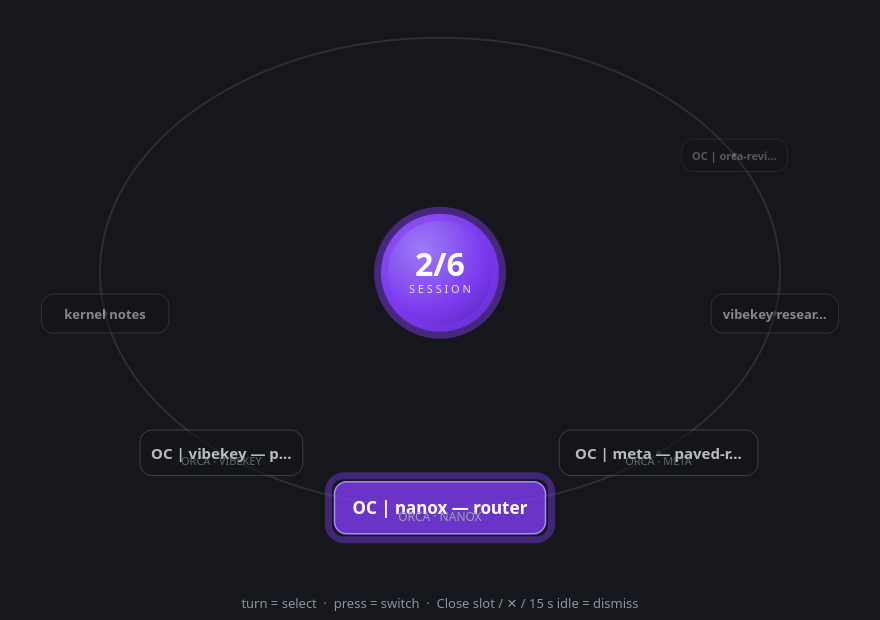
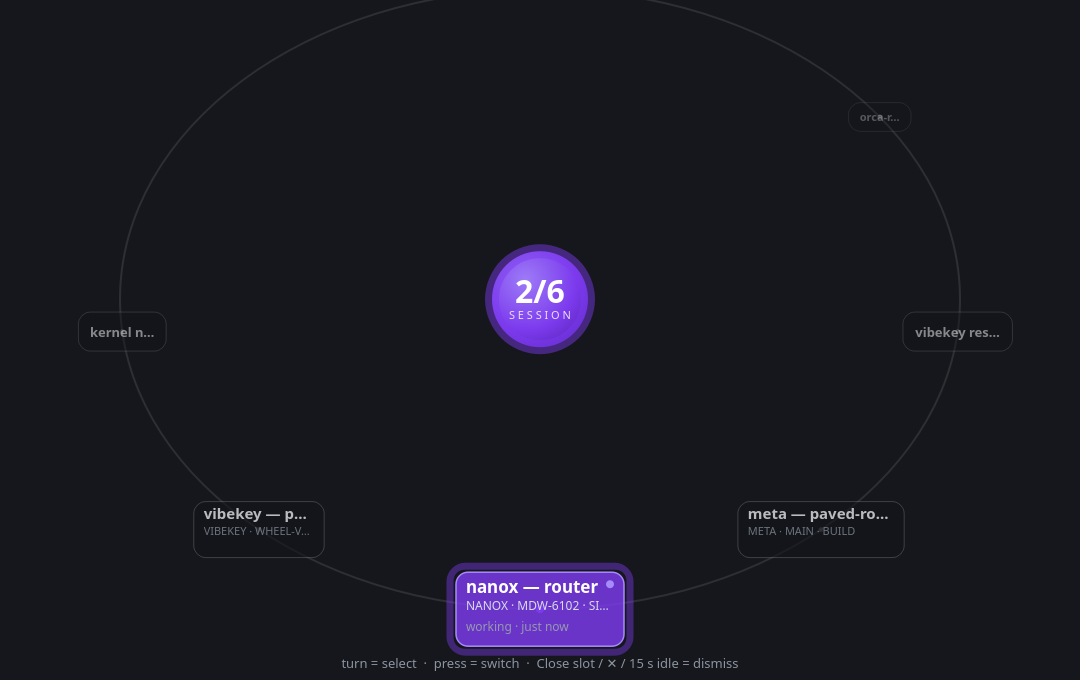
Wheel v5: richer cards, one detent = one slot
Owner: 'the wheel is too sensitive' + 'from the cards it's unclear what
session this is'.

1. Sensitivity: a physical detent can emit a burst of wheel reports —
   each used to step the Wheel (and the closed-state dial). Same-direction
   reports inside TURN_MIN_INTERVAL (0.10 s) are now recognised as the
   burst of the SAME click and dropped; a deliberate reversal passes
   through. Verified by a handle_control-level test (2 ticks 30 ms apart
   = 1 step, next step 120 ms later).
2. Card content, tiered by depth so the ring geometry stays
   collision-free (rect-checked for every adjacent pair at max width):
   selection (bottom) — title / repo · branch · agent / last-activity,
   with a violet busy dot + 'working' while time.busy > time.idle;
   ±1 — title + repo · branch · agent; ±2..3 — title only. Branch comes
   from Orca terminals then worktrees (branch_map, built once per open —
   detents still cost zero HTTP). ago_text() renders updated-time as
   'just now / 12m / 3h / 5d ago'.
3. Geometry widened to 42° pitch on a 420x310 ellipse (1080x680), hub
   48px to clear the risen side cards. Docs renderer + ring-overlay.png
   + spec §5.3 synced (new picker item fields, TURN_MIN_INTERVAL).

diff --git a/panel/panel.py b/panel/panel.py
@@ -1087,7 +1087,7 @@ class RingOverlay(QWidget):
     it previews underneath keep working; the wheel Eases between detents like
     the HTML prototype the owner approved."""
 
-    W, H = 880, 620
+    W, H = 1080, 680
     RX, RY = 250.0, 165.0
 
     def __init__(self):
@@ -1130,19 +1130,28 @@ class RingOverlay(QWidget):
     # The Wheel IS a ring (owner 2026-11-16: "still must be a ring") — but 13
     # cards at 360/13=27.7° on a 250px ellipse pack ~100px per slot against
     # 250px-wide cards: the label crawl was built into the angle math. Cards
-    # now ride the FRONT ARC at a fixed 40° pitch (Ferris wheel: the bottom
+    # now ride the FRONT ARC at a fixed 42° pitch (Ferris wheel: the bottom
     # reads first, sides rise and fade), the rim carries the whole ring, and
     # far slots simply have no card. Same picker state, same easing.
-    RX, RY = 340.0, 235.0     # rim ellipse
-    STEP_DEG = 40.0           # card pitch along the front arc
+    #
+    # Cards are tiered by depth (owner: "from the cards it's unclear what
+    # session this is"): the selection shows title + repo · branch · agent +
+    # last-activity ("working" while the agent runs); slot ±1 shows title +
+    # repo · branch; ±2..3 carry titles only. Rectangle sizes below were
+    # collision-checked for every adjacent pair at maximum text width.
+    RX, RY = 420.0, 310.0     # rim ellipse
+    STEP_DEG = 42.0           # card pitch along the front arc
     WINDOW = 3                # card slots each side of the selection
+    # per-depth: (max card width, card height, lines of meta shown)
+    TIERS = {0: (300, 74, 2), 1: (280, 64, 1), 2: (200, 52, 0), 3: (190, 46, 0)}
 
     def _place(self, k):
         """(x, y, scale, opacity) of the card k slots from the selection."""
         import math
         a = math.radians(k * self.STEP_DEG - 90.0)   # -90° = the bottom
         cx, cy = self.width() / 2.0, self.height() * 0.44
-        d = abs(k)
+        d = abs(int(round(k))) if abs(k - round(k)) < 0.02 else min(3, abs(int(k)))
+        d = min(3, d)
         return (cx + self.RX * math.cos(a), cy - self.RY * math.sin(a),
                 max(0.62, 1.0 - d * 0.125), max(0.30, 1.0 - d * 0.24))
 
@@ -1162,8 +1171,7 @@ class RingOverlay(QWidget):
         sel = round(self.cur) % n if n else 0
         # rim markers for every Session (they slide with the turn)
         for i in range(n):
-            k = depth(i)
-            a = math.radians(k * self.STEP_DEG - 90.0)
+            a = math.radians(depth(i) * self.STEP_DEG - 90.0)
             x, y = cx + self.RX * math.cos(a), cy - self.RY * math.sin(a)
             p.setBrush(QColor("#7c3aed") if i == sel else QColor(255, 255, 255, 60))
             p.setPen(Qt.NoPen)
@@ -1175,14 +1183,14 @@ class RingOverlay(QWidget):
             k = depth(i)
             if abs(k) > self.WINDOW + 0.5:
                 continue
-            self._card(p, i, *self._place(k))
+            self._card(p, i, k, *self._place(k))
         p.setPen(QColor("#8b94a0"))
         p.setFont(QFont("sans", 10))
         p.drawText(self.rect().adjusted(0, 0, 0, -8), Qt.AlignHCenter | Qt.AlignBottom,
                    "turn = select  ·  press = switch  ·  Close slot / ✕ / 15 s idle = dismiss")
 
     def _hub(self, p, cx, cy, sel):
-        r = 59.0
+        r = 48.0
         grad = QRadialGradient(cx - r * 0.3, cy - r * 0.4, r * 1.9, cx - r * 0.3, cy - r * 0.4)
         grad.setColorAt(0.0, QColor("#9d7bf7"))
         grad.setColorAt(0.55, QColor("#7c3aed"))
@@ -1201,19 +1209,21 @@ class RingOverlay(QWidget):
         p.drawText(QRectF(cx - r, cy + 8, 2 * r, 16), Qt.AlignCenter,
                    "C L O S E" if on_close else "S E S S I O N")
 
-    def _card(self, p, i, x, y, scale, op):
+    def _card(self, p, i, k, x, y, scale, op):
         it = self.items[i]
         is_close = str(it.get("id")) == "__close__"
+        tier = self.TIERS[min(3, abs(int(k)))]
         cur = (round(self.cur) % len(self.items)) == i
         title = str(it.get("title") or "")
-        host = str(it.get("host") or "")
-        f_t = QFont("sans")
-        f_t.setPointSizeF(13.0 * scale)
-        f_t.setBold(True)
-        f_h = QFont("sans")
-        f_h.setPointSizeF(9.0 * scale)
-        w = (110 if is_close else max(170, min(230, QFontMetrics(f_t).horizontalAdvance(title) + 36))) * scale
-        h = (52 if not is_close else 40) * scale
+        meta1 = str(it.get("meta1") or it.get("host") or "")
+        meta2 = str(it.get("meta2") or "")
+        f_t = QFont("sans"); f_t.setPointSizeF(13.0 * scale); f_t.setBold(True)
+        f_m = QFont("sans"); f_m.setPointSizeF(9.2 * scale)
+        base_w, base_h, lines = tier
+        if is_close:
+            base_w, base_h, lines = 130, base_h - 16, 0
+        w = min(base_w, QFontMetrics(f_t).horizontalAdvance(title) + 36) * scale
+        h = base_h * scale
         rect = QRectF(x - w / 2, y - h / 2, w, h)
         p.setOpacity(op)
         if cur:  # violet glow behind the selected card (bottom of the wheel)
@@ -1222,20 +1232,48 @@ class RingOverlay(QWidget):
             p.setBrush(Qt.NoBrush)
             p.drawRoundedRect(glow, 15, 15)
         p.setPen(QPen(QColor("#a78bfa") if cur else QColor(255, 255, 255, 60), 1.5 if cur else 1))
-        close_dim = QColor(70, 74, 82, 210) if is_close else QColor(18, 20, 26, 205)
-        p.setBrush(QColor(124, 58, 237, 210) if cur else close_dim)
+        p.setBrush(QColor(124, 58, 237, 210) if cur
+                   else (QColor(70, 74, 82, 210) if is_close else QColor(18, 20, 26, 205)))
         p.drawRoundedRect(rect, 12, 12)
-        p.setPen(QColor("#ffffff" if cur else ("#9aa3ad" if is_close else "#eff0f1")))
-        p.setFont(f_t)
-        p.drawText(rect, Qt.AlignCenter, title if is_close else
-                   QFontMetrics(f_t).elidedText(title, Qt.ElideRight, int(rect.width() - 20)))
-        if not is_close and scale > 0.85:
-            p.setPen(QColor(154, 163, 173, int(255 * op)))
-            p.setFont(f_h)
-            p.drawText(QRectF(rect.left(), rect.top() + rect.height() * 0.52, rect.width(), rect.height() * 0.3),
-                       Qt.AlignCenter, host.upper())
+        inner = rect.adjusted(10, 0, -10, 0)
+        if lines == 2:   # selection: title · meta1 · meta2(+busy)
+            p.setPen(QColor("#ffffff"))
+            p.setFont(f_t)
+            p.drawText(QRectF(inner.left(), rect.top() + 4, inner.width(), 20 * scale),
+                       Qt.AlignLeft | Qt.AlignVCenter,
+                       QFontMetrics(f_t).elidedText(title, Qt.ElideRight, int(inner.width())))
+            p.setPen(QColor(226, 232, 240, 235))
+            p.setFont(f_m)
+            p.drawText(QRectF(inner.left(), rect.top() + 26 * scale, inner.width(), 15 * scale),
+                       Qt.AlignLeft | Qt.AlignVCenter,
+                       QFontMetrics(f_m).elidedText(meta1.upper(), Qt.ElideRight, int(inner.width())))
+            m2 = meta2
+            if it.get("busy"):
+                m2 = ("working" + (" · " + m2 if m2 else ""))
+            p.setPen(QColor(154, 163, 173, 230))
+            p.drawText(QRectF(inner.left(), rect.top() + 47 * scale, inner.width(), 15 * scale),
+                       Qt.AlignLeft | Qt.AlignVCenter, m2)
+            if it.get("busy"):   # violet pulse dot on the title line
+                p.setBrush(QColor("#a78bfa")); p.setPen(Qt.NoPen)
+                p.drawEllipse(QRectF(rect.right() - 18 * scale, rect.top() + 8 * scale,
+                                     8 * scale, 8 * scale))
+        elif lines == 1:  # ±1: title + one meta line
+            p.setPen(QColor("#eff0f1"))
+            p.setFont(f_t)
+            p.drawText(QRectF(inner.left(), rect.top() + 3, inner.width(), 20 * scale),
+                       Qt.AlignLeft | Qt.AlignVCenter,
+                       QFontMetrics(f_t).elidedText(title, Qt.ElideRight, int(inner.width())))
+            p.setPen(QColor(154, 163, 173, 220))
+            p.setFont(f_m)
+            p.drawText(QRectF(inner.left(), rect.top() + 26 * scale, inner.width(), 15 * scale),
+                       Qt.AlignLeft | Qt.AlignVCenter,
+                       QFontMetrics(f_m).elidedText(meta1.upper(), Qt.ElideRight, int(inner.width())))
+        else:            # ±2..3 and Close: single line, centered
+            p.setPen(QColor("#ffffff" if cur else ("#9aa3ad" if is_close else "#eff0f1")))
+            p.setFont(f_t)
+            p.drawText(rect, Qt.AlignCenter, title if is_close else
+                       QFontMetrics(f_t).elidedText(title, Qt.ElideRight, int(rect.width() - 20)))
         p.setOpacity(1.0)
-
 
 # ---------------------------------------------------------------------------
 # Tray application

diff --git a/tools/render_docs_assets.py b/tools/render_docs_assets.py
@@ -165,10 +165,13 @@ def main():
 
 def render_ring(app):
     picker = {"open": True, "index": 1, "at": 0, "items": [
-        {"id": "s%d" % i, "title": t, "host": h} for i, (t, h) in enumerate([
-            ("OC | vibekey — port", "Orca · vibekey"), ("OC | nanox — router", "Orca · nanox"),
-            ("OC | meta — paved-roads", "Orca · meta"), ("vibekey research", "term · konsole"),
-            ("OC | orca-review", "Orca · review"), ("kernel notes", "term · yakuake")])]}
+        dict(id="s%d" % i, title=t, host=h, meta1=m, meta2=a, busy=b) for i, (t, h, m, a, b) in enumerate([
+            ("vibekey — port", "Orca · vibekey", "vibekey · wheel-v5 · build", "2m ago", False),
+            ("nanox — router", "Orca · nanox", "nanox · MDW-6102 · sisyphus", "just now", True),
+            ("meta — paved-roads", "Orca · meta", "meta · main · build", "3h ago", False),
+            ("vibekey research", "term · konsole", "vibekey · research", "1d ago", False),
+            ("orca-review", "Orca · review", "review · main · oracle", "40m ago", False),
+            ("kernel notes", "term · yakuake", "notes · master", "5d ago", False)])]}
     ov = vkpanel.RingOverlay()
     ov.sync(picker)
     for _ in range(40):

diff --git a/spec.md b/spec.md
@@ -286,14 +286,24 @@ next valid)" among the notified events).
 
 **Wheel** (owner batch 2026-11-16, replacing mode-cycling on press): knob
 press opens the Ring overlay — a pure mirror of `state.json`:
-`picker{open, items[{id,title,host}], index}`; the last item is always the
+`picker{open, items[{id,title,host,meta1,meta2,busy}], index}` (meta1 =
+`repo · branch · agent` — branch joined from Orca terminals/worktrees at
+open; meta2 = last-activity via `ago_text`; busy = `time.busy > time.idle`);
+the last item is always the
 dedicated **Close** slot (`id: "__close__"`). The Daemon owns all state; the
-Panel (`RingOverlay`: frameless, never focused, mouse-transparent, eased like
-the approved HTML prototype) only draws.
+Panel (`RingOverlay`: frameless, never focused, mouse-transparent) draws the
+ring — cards on a 42° front-arc pitch (collision-checked tiers: selection
+shows title + meta1 + meta2 with a violet busy dot, ±1 shows title + meta1,
+±2..3 titles only), the rim carries a marker per Session. Eased like the
+approved HTML prototype.
 
 Semantics (owner: "sessions switch ON PRESS", "separate close item", "15 s"):
 - **turn while open** = selection only (`picker_turn`): pure index math over
   the rows cached at open — zero HTTP, zero raises, the Cursor untouched;
+  one physical detent = one slot: same-direction wheel reports arriving
+  within TURN_MIN_INTERVAL (0.10 s) are the burst of the same click and are
+  dropped (owner: "the wheel is too sensitive"); applies to the closed-state
+  direct dial too;
 - **press while open** = commit: the selection becomes the Cursor and its
   Host is raised immediately (the one switch point); press on the Close slot
   behaves like ✕;
